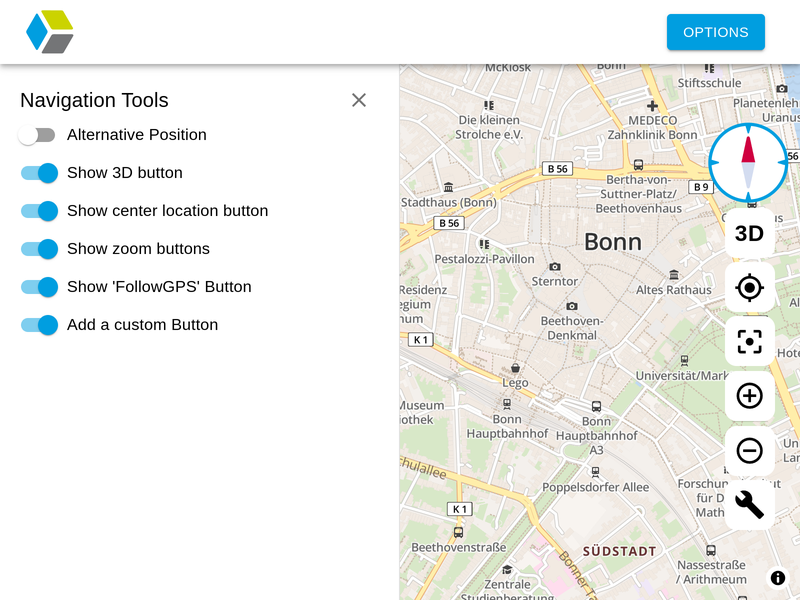
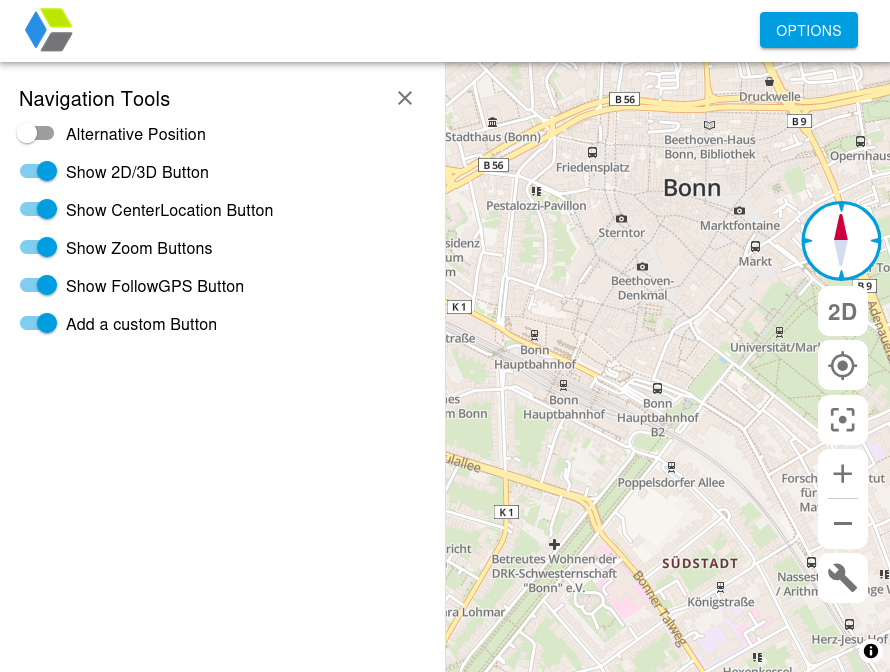
Design/navigation tool (#225)

Changed region(s): [[0.0, 0.0, 1.0, 1.0]]

diff --git a/src/components/MlNavigationTools/MlNavigationTools.tsx b/src/components/MlNavigationTools/MlNavigationTools.tsx
@@ -1,16 +1,16 @@
 import React, { useCallback, useEffect, useState } from 'react';
 import Button from '@mui/material/Button';
 import ButtonGroup from '@mui/material/ButtonGroup';
-import ControlPointIcon from '@mui/icons-material/ControlPoint';
-import RemoveCircleOutlineIcon from '@mui/icons-material/RemoveCircleOutline';
+import AddIcon from '@mui/icons-material/Add';
+import RemoveIcon from '@mui/icons-material/Remove';
 import Box from '@mui/material/Box';
 import { SxProps, Theme } from '@mui/material';
-import Divider from '@mui/material/Divider';
 import MlNavigationCompass from '../MlNavigationCompass/MlNavigationCompass';
 import MlFollowGps from '../MlFollowGps/MlFollowGps';
 import useMediaQuery from '@mui/material/useMediaQuery';
 import useMap from '../../hooks/useMap';
 import MlCenterPosition from '../MlCenterPosition/MlCenterPosition';
+import { useTheme } from '@mui/material';
 
 export interface MlNavigationToolsProps {
 	/**
@@ -65,6 +65,8 @@ const MlNavigationTools = (props: MlNavigationToolsProps) => {
 	const [pitch, setPitch] = useState(0);
 	const mediaIsMobile = useMediaQuery((theme: Theme) => theme.breakpoints.down('md'));
 
+	const theme = useTheme();
+
 	useEffect(() => {
 		if (!mapHook.map) return;
 
@@ -97,7 +99,6 @@ const MlNavigationTools = (props: MlNavigationToolsProps) => {
 		setPitch(mapHook.map.getPitch());
 		const targetPitch = mapHook.map.getPitch() !== 0 ? 0 : 60;
 		mapHook.map.easeTo({ pitch: targetPitch });
-		
 	}, [mapHook.map]);
 
 	return (
@@ -115,8 +116,12 @@ const MlNavigationTools = (props: MlNavigationToolsProps) => {
 		>
 			<MlNavigationCompass />
 			{props.show3DButton && (
-				<Button variant="navtools" onClick={adjustPitch}>
-					{pitch < 29 ? '3D' : '2D'}
+				<Button
+					variant="navtools"
+					onClick={adjustPitch}
+					sx={{ color: (theme) => theme.palette.navigation.buttonColor }}
+				>
+					{pitch < 29 ? '2D' : '3D'}
 				</Button>
 			)}
 			{props.showFollowGpsButton && <MlFollowGps />}
@@ -125,18 +130,44 @@ const MlNavigationTools = (props: MlNavigationToolsProps) => {
 				orientation="vertical"
 				sx={{
 					border: 'none',
-					Button: { minWidth: '20px !important' },
+					Button: { minWidth: '20px !important', color: theme.palette.navigation.buttonColor },
 					'Button:hover': { border: 'none' },
 				}}
 			>
 				{props.showZoomButtons && (
 					<>
-						<Button variant="navtools" onClick={zoomIn}>
-							<ControlPointIcon sx={{ fontSize: { xs: '1.4em', md: '1em' } }} />
+						<Button
+							variant="navtools"
+							onClick={zoomIn}
+							sx={{
+								borderBottomLeftRadius: 0,
+								borderBottomRightRadius: 0,
+								position: 'relative',
+
+								'&::after': {
+									content: '""',
+									position: 'absolute',
+									left: '20%',
+									bottom: 0,
+									width: '60%',
+									height: '1px',
+									backgroundColor: '#ccc',
+									borderRadius: '1px',
+								}, // Dividing line
+							}}
+						>
+							<AddIcon sx={{ fontSize: { xs: '1.4em', md: '1em' } }} />
 						</Button>
-						<Divider sx={{ zIndex: 500, marginLeft: '7px', marginRight: '7px' }} />
-						<Button variant="navtools" onClick={zoomOut}>
-							<RemoveCircleOutlineIcon sx={{ fontSize: { xs: '1.4em', md: '1em' } }} />
+						<Button
+							variant="navtools"
+							onClick={zoomOut}
+							sx={{
+								margin: 0,
+								borderTopLeftRadius: 0,
+								borderTopRightRadius: 0,
+							}}
+						>
+							<RemoveIcon sx={{ fontSize: { xs: '1.4em', md: '1em' } }} />
 						</Button>
 					</>
 				)}

diff --git a/src/components/MlNavigationTools/MlNavigationTools.stories.tsx b/src/components/MlNavigationTools/MlNavigationTools.stories.tsx
@@ -10,7 +10,6 @@ import FormControlLabel from '@mui/material/FormControlLabel';
 import Sidebar from '../../ui_components/Sidebar';
 import TopToolbar from '../../ui_components/TopToolbar';
 
-
 const storyoptions = {
 	title: 'MapComponents/MlNavigationTools',
 	component: MlNavigationTools,
@@ -23,7 +22,7 @@ const storyoptions = {
 };
 export default storyoptions;
 
-const Template = (props: MlNavigationToolsProps ) => <MlNavigationTools {...props} />;
+const Template = (props: MlNavigationToolsProps) => <MlNavigationTools {...props} />;
 
 const catalogueTemplate = () => {
 	const [openSidebar, setOpenSidebar] = useState(true);
@@ -80,19 +79,19 @@ const catalogueTemplate = () => {
 					/>
 					<FormControlLabel
 						control={<Switch checked={ThreeDButton} onChange={handleChange1} />}
-						label="Show 3D button"
+						label="Show 2D/3D Button"
 					/>
 					<FormControlLabel
 						control={<Switch checked={CenterLocationButton} onChange={handleChange2} />}
-						label="Show center location button"
+						label="Show CenterLocation Button"
 					/>
 					<FormControlLabel
 						control={<Switch checked={ZoomButtons} onChange={handleChange3} />}
-						label="Show zoom buttons"
+						label="Show Zoom Buttons"
 					/>
 					<FormControlLabel
 						control={<Switch checked={FollowGpsButton} onChange={handleChange4} />}
-						label="Show 'FollowGPS' Button"
+						label="Show FollowGPS Button"
 					/>
 					<FormControlLabel
 						control={<Switch checked={showCustomButton} onChange={handleCustomButtonChange} />}
@@ -108,7 +107,11 @@ const catalogueTemplate = () => {
 				showFollowGpsButton={FollowGpsButton}
 			>
 				{showCustomButton ? (
-					<Button variant="navtools" onClick={() => {}}>
+					<Button
+						variant="navtools"
+						onClick={() => {}}
+						sx={{ color: (theme) => theme.palette.navigation.buttonColor }}
+					>
 						<BuildIcon sx={{ fontSize: { xs: '1.4em', md: '1em' } }} />
 					</Button>
 				) : (
@@ -158,7 +161,11 @@ export const CustomButton = Template.bind({});
 CustomButton.parameters = {};
 CustomButton.args = {
 	children: (
-		<Button variant="navtools" onClick={() => {}}>
+		<Button
+			variant="navtools"
+			onClick={() => {}}
+			sx={{ color: (theme) => theme.palette.navigation.buttonColor }}
+		>
 			<BuildIcon sx={{ fontSize: { xs: '1.4em', md: '1em' } }} />
 		</Button>
 	),

diff --git a/src/ui_components/MapcomponentsTheme.tsx b/src/ui_components/MapcomponentsTheme.tsx
@@ -5,7 +5,7 @@ import { Theme } from '@mui/system';
 declare module '@mui/material' {
 	interface Palette {
 		topToolbar: { barColor: string };
-		navigation: { navColor: string; navHover: string };
+		navigation: { buttonColor: string, navColor: string; navHover: string };
 		GPS: { GPSActiveColor: string; GPSInactiveColor: string; GPSActiveBackgroundColor: string };
 		compass: {
 			compColor: string;
@@ -54,7 +54,7 @@ const getDesignTokens = (mode: 'light' | 'dark') => ({
 						contrast: '#000',
 					},
 					topToolbar: { barColor: '#000' },
-					navigation: { navColor: '#313131', navHover: '#747577' },
+					navigation: { buttonColor: '#fff', navColor: '#313131', navHover: '#747577' },
 					GPS: {
 						GPSActiveColor: '#fff',
 						GPSInactiveColor: '#fff',
@@ -78,10 +78,10 @@ const getDesignTokens = (mode: 'light' | 'dark') => ({
 						contrast: '#fff',
 					},
 					topToolbar: { barColor: '#fff' },
-					navigation: { navColor: '#fff', navHover: '#f5f5f5' },
+					navigation: { buttonColor: '#747577', navColor: '#fff', navHover: '#f5f5f5' },
 					GPS: {
 						GPSActiveColor: '#009EE0',
-						GPSInactiveColor: '#000',
+						GPSInactiveColor: '#747577',
 						GPSActiveBackgroundColor: '#fff',
 					},
 					compass: {

diff --git a/src/components/MlCenterPosition/MlCenterPosition.tsx b/src/components/MlCenterPosition/MlCenterPosition.tsx
@@ -58,10 +58,12 @@ const MlCenterPosition = (props: MlCenterPositionProps) => {
 		<>
 			<Button
 				variant="navtools"
-				sx={{
+				sx={(theme) => ({
 					zIndex: 1002,
-					color: !locationAccessDenied ? props.onColor : props.offColor,
-				}}
+					color: !locationAccessDenied
+						? (props.onColor ?? theme.palette.navigation.buttonColor)
+						: (props.offColor ?? theme.palette.navigation.buttonColor),
+				})}
 				onClick={centerCurrentLocation}
 				disabled={locationAccessDenied}
 			>
